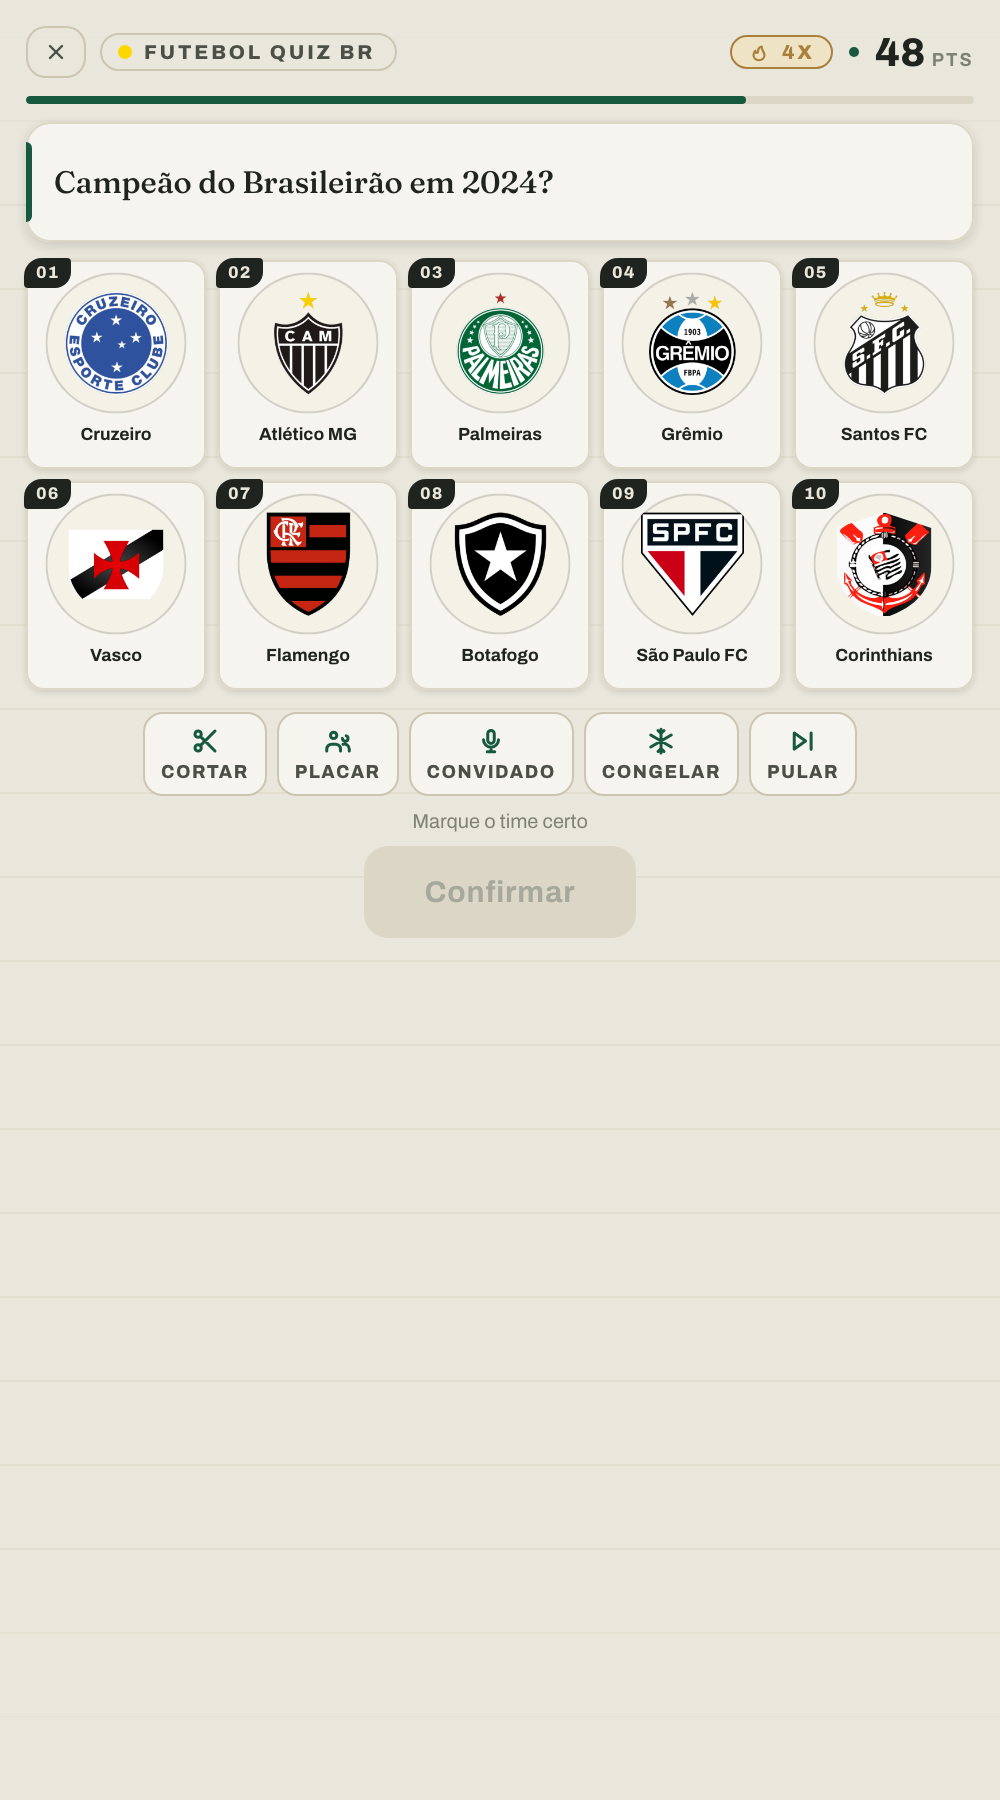
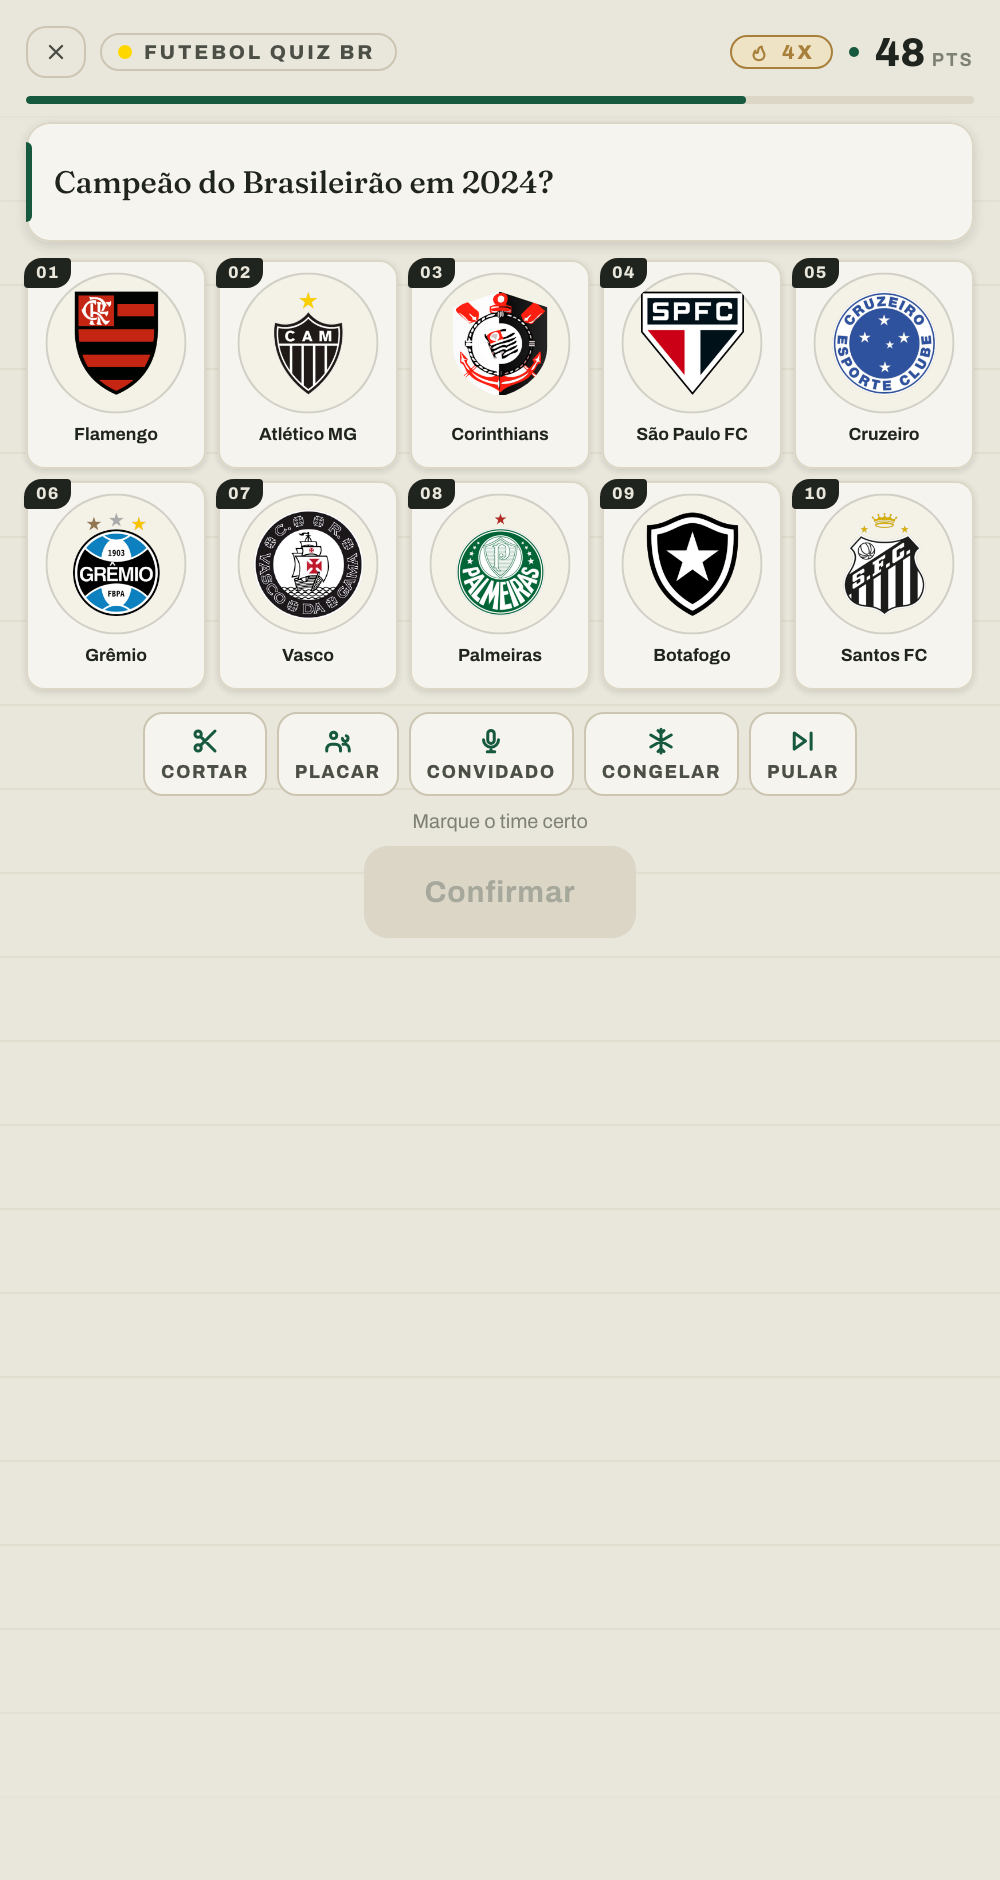
Give Vasco, Náutico and Sampaio their real crests
Three clubs were the odd ones out in a row of forty-two, and the reason
turned out to be the source rather than the styling. Thirty-seven crests
come from the club's own file on Commons, public domain. These three came
from a different uploader and were not crests at all — they were the club
flags, so they read as rectangles among the shields no matter how they
were cropped.

Commons has proper crests for all three; the earlier fetch simply took
the wrong file. For Sampaio the table listed the flag .svg ahead of the
crest .png and lookup() stopped at the first hit, so fetch_club_art.py is
corrected too.

  Vasco    Escudo Vasco 1903.png          PD, Club de Regatas Vasco da Gama
  Náutico  Náutico logo (1995-2006).png   CC0
  Sampaio  Sampaio Corrêa FC.png          PD, Sampaio Corrêa Futebol Clube

Being real crests, they no longer need the shield clip-path or the crop
hints that existed to make flags behave, so they leave FLAT_LOGOS and the
comments there stop describing a case that no longer applies.

Sport Recife and Bragantino keep the drawn badge: the only free Sport
file is a faded scan on a white box, and there is nothing free at all for
Bragantino.

Claude-Session: https://claude.ai/code/session_01AeDN92YGYdCLcJmAVMuuVY

Changed region(s): [[0.0, 0.0, 0.961, 0.4978], [0.899, 0.0, 0.93, 0.0311]]

diff --git a/index.html b/index.html
@@ -734,9 +734,9 @@
 </head>
 <body>
 <!-- The shield every club's mark is cut to. Most crests are already shield
-     shaped; the four clubs whose only freely-licensed artwork is a flag are
-     clipped to this same outline, so a row of crests is one family of shapes
-     rather than shields beside rectangles. -->
+     shaped; the three whose only freely-licensed file has an opaque square
+     background are clipped to this same outline, so a row of crests is one
+     family of shapes rather than shields beside rectangles. -->
 <svg width="0" height="0" style="position:absolute" aria-hidden="true"><defs>
   <clipPath id="shield" clipPathUnits="objectBoundingBox">
     <path d="M0.5 0.03 L0.93 0.17 L0.93 0.52 C0.93 0.76 0.73 0.92 0.5 0.985
@@ -1783,8 +1783,8 @@ const LOGOS = {
   americamg:    'img/385a518b92fc0556.png',
   guarani:      'img/3565e2d188f683e3.png',
   corinthians:  'img/73bde55c15fce63d.png',
-  vasco:        'img/948a53f754af33d7.png',
-  nautico:      'img/5e19d4beeeda7be1.png',
+  vasco:        'img/1fb43d9555285365.png',
+  nautico:      'img/0bd34a4355657963.png',
   goias:         'img/85111ae1fa5b5a12.png',
   atleticogo:    'img/7818e6a84a5c7d6c.png',
   cuiaba:        'img/f5bc4b8150fa5b8c.png',
@@ -1799,7 +1799,7 @@ const LOGOS = {
   csa:           'img/e5a1d03808494f19.png',
   crb:           'img/d4ed64e00779c976.png',
   abc:           'img/6f4c4d9ea66eef2b.png',
-  sampaio:       'img/967c553444528675.png',
+  sampaio:       'img/99e7f75110951861.png',
   mirassol:      'img/b2892514e577b9ac.png',
   botafogosp:    'img/c482668824eb5675.png',
 };
@@ -1903,7 +1903,7 @@ const CREDITS = {
   'img/558858adda0e83fa.png': { a:'Esporte Clube Bahia', l:'Public domain' },
   'img/58802c8550ef5fa7.jpg': { a:'Bryan Berlin', l:'CC BY-SA 4.0' },
   'img/5a5e8c49ba076870.png': { a:'Criciúma Esporte Clube', l:'Public domain' },
-  'img/5e19d4beeeda7be1.png': { a:'LonEMedia', l:'CC BY-SA 3.0' },
+  'img/0bd34a4355657963.png': { a:'Fefc2002', l:'CC0' },
   'img/618d79848fbbec21.jpg': { a:'Carlsberg', l:'CC BY 3.0' },
   'img/666048b495ae1438.jpg': { a:'Web Summit', l:'CC BY 2.0' },
   'img/66a6d28f83b53839.jpg': { a:'Wilson Dias/ABr', l:'CC BY 3.0 br' },
@@ -1936,7 +1936,7 @@ const CREDITS = {
   'img/89327837f14f3c13.jpg': { a:'Doha Stadium Plus Qatar', l:'CC BY 2.0' },
   'img/9303d0cc8b834d4f.jpg': { a:'Y.Leclercq©', l:'CC BY-SA 4.0' },
   'img/9429cb23de075033.jpg': { a:'Pavel Lebeda', l:'CC BY-SA 2.0' },
-  'img/948a53f754af33d7.png': { a:'LonEMedia', l:'CC BY-SA 3.0' },
+  'img/1fb43d9555285365.png': { a:'Club de Regatas Vasco da Gama', l:'Public domain' },
   'img/94bf9a8f11ebefd0.jpg': { a:'Emilio Ronchini (Mondadori Publishers)', l:'Public domain' },
   'img/9564d5244c34c91c.jpg': { a:'Pedro J Pacheco', l:'CC BY-SA 4.0' },
   'img/971d29633a44b706.jpg': { a:'Real Madrid', l:'CC BY 3.0' },
@@ -2013,7 +2013,7 @@ const CREDITS = {
   'img/6f4c4d9ea66eef2b.png': { a:'ABC Futebol Clube', l:'Public domain' },
   'img/7818e6a84a5c7d6c.png': { a:'Futbox', l:'Public domain' },
   'img/85111ae1fa5b5a12.png': { a:'Goiás Esporte Clube', l:'Public domain' },
-  'img/967c553444528675.png': { a:'LonEMedia', l:'CC BY-SA 3.0' },
+  'img/99e7f75110951861.png': { a:'Sampaio Corrêa Futebol Clube', l:'Public domain' },
   'img/b2892514e577b9ac.png': { a:'Mirassol Futebol Clube', l:'Public domain' },
   'img/be9069fb11799f76.png': { a:'Mário Bayma', l:'Public domain' },
   'img/c482668824eb5675.png': { a:'Botafogo Futebol Clube', l:'Public domain' },
@@ -3581,14 +3581,13 @@ function genericCrest(id) {
    otherwise a screen reader says every name twice. In the question header
    there is no such caption, so there the crest has to carry the name. */
 /* Most crests are transparent artwork that can float on the page. These three
-   are not: Corinthians' free file carries its own split background, and the
-   only freely-licensed Vasco and Náutico marks on Commons are the club flags,
-   which are solid rectangles. Dropped in raw they read as stray boxes among
-   the shields, so they are cut as roundels — the same round badge shape,
-   cropped onto the mark itself — and sit in the row like everyone else. */
-const FLAT_LOGOS = new Set(['corinthians', 'vasco', 'nautico',
-                            'sampaio', 'botafogosp', 'crb']);
-const ROUNDEL_FOCUS = { nautico: '22% 50%', vasco: '50% 50%', corinthians: '50% 50%' };
+   are not — Corinthians' free file carries its own split background, and the
+   Botafogo-SP and CRB files come flattened onto white. Dropped in raw they
+   read as stray boxes among the shields, so they are cut to the shield
+   outline, cropped onto the mark itself, and sit in the row like everyone
+   else. */
+const FLAT_LOGOS = new Set(['corinthians', 'botafogosp', 'crb']);
+const ROUNDEL_FOCUS = { corinthians: '50% 50%' };
 /* Where the interesting part of an opaque file sits, for the disc's crop. */
 const ROUNDEL_FOCUS_EXTRA = { botafogosp: '50% 42%', crb: '50% 46%' };
 Object.assign(ROUNDEL_FOCUS, ROUNDEL_FOCUS_EXTRA);
@@ -3596,9 +3595,9 @@ Object.assign(ROUNDEL_FOCUS, ROUNDEL_FOCUS_EXTRA);
 function clubArt(id, style, label) {
   const name = clubName(id);
   /* Three shapes of source, one shape on screen. A normal crest is already a
-     shield and simply sits in the disc; a club whose only free artwork is a
-     flag has that flag cut to the shield outline; a club with no free artwork
-     at all keeps the drawn badge, which fills the disc. */
+     shield and simply sits in the disc; a file that comes with an opaque
+     square background is cut to the shield outline; a club with no free
+     artwork at all keeps the drawn badge, which fills the disc. */
   let inner;
   if (LOGOS[id] && FLAT_LOGOS.has(id)) {
     inner = `<span class="clipped"><img src="${LOGOS[id]}" alt="" aria-hidden="true"

diff --git a/tools/fetch_club_art.py b/tools/fetch_club_art.py
@@ -38,7 +38,12 @@ CRESTS = {
     "santacruz":    ["File:Santa Cruz Futebol Clube logo.svg"],
     "abc":          ["File:ABC FC - RN.svg"],
     "crb":          ["File:CRB logo.svg"],
-    "sampaio":      ["File:Sampaio Corrêa FC.svg", "File:Sampaio Corrêa FC.png"],
+    # The .svg under this name is the club flag, not the crest; the .png is the
+    # crest itself, so it goes first.
+    "sampaio":      ["File:Sampaio Corrêa FC.png"],
+    # Likewise for these two: the file named plainly after the club is a flag.
+    "vasco":        ["File:Escudo Vasco 1903.png", "File:Escudo Vasco 1920.png"],
+    "nautico":      ["File:Náutico logo (1995-2006).png", "File:Náutico Logo (2006-2008).png"],
     "mirassol":     ["File:Mirassol Futebol Clube logo.svg"],
     "botafogosp":   ["File:Botafogo Futebol Clube (Ribeirão Preto) logo.svg"],
 }
